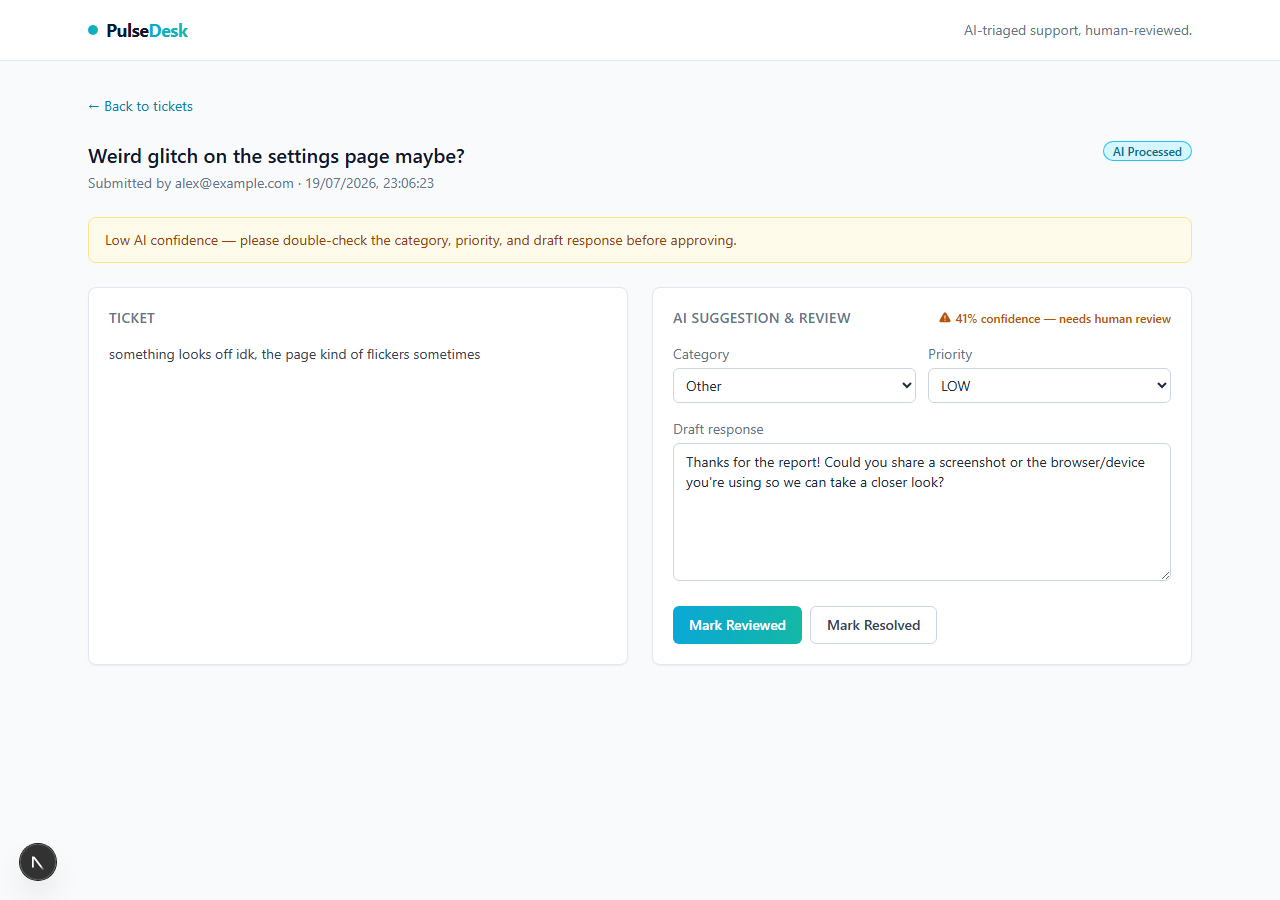
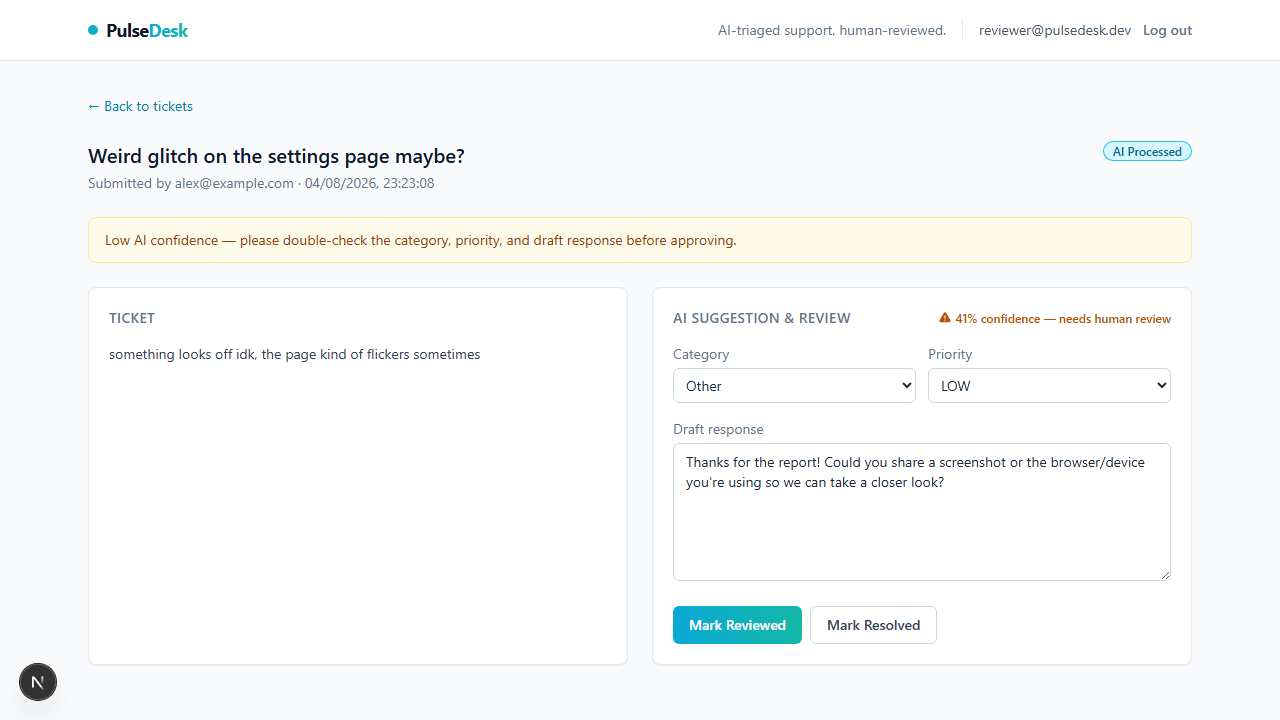
Refresh dashboard screenshots for reviewer login
The existing screenshots predated the auth feature and showed a
dashboard header with no login state. Re-captured them logged in as
the seeded reviewer, and added a login screen screenshot.

diff --git a/README.md b/README.md
@@ -57,6 +57,11 @@ like.
 
 ## Screenshots
 
+**Reviewer sign-in** — the dashboard is gated behind login; see the seeded
+demo credentials under Setup:
+
+![Reviewer login screen](docs/screenshots/login.png)
+
 **Ticket list** — color-coded category/priority/status badges, filters, sort,
 and a visible confidence flag on anything the AI was unsure about:
 
